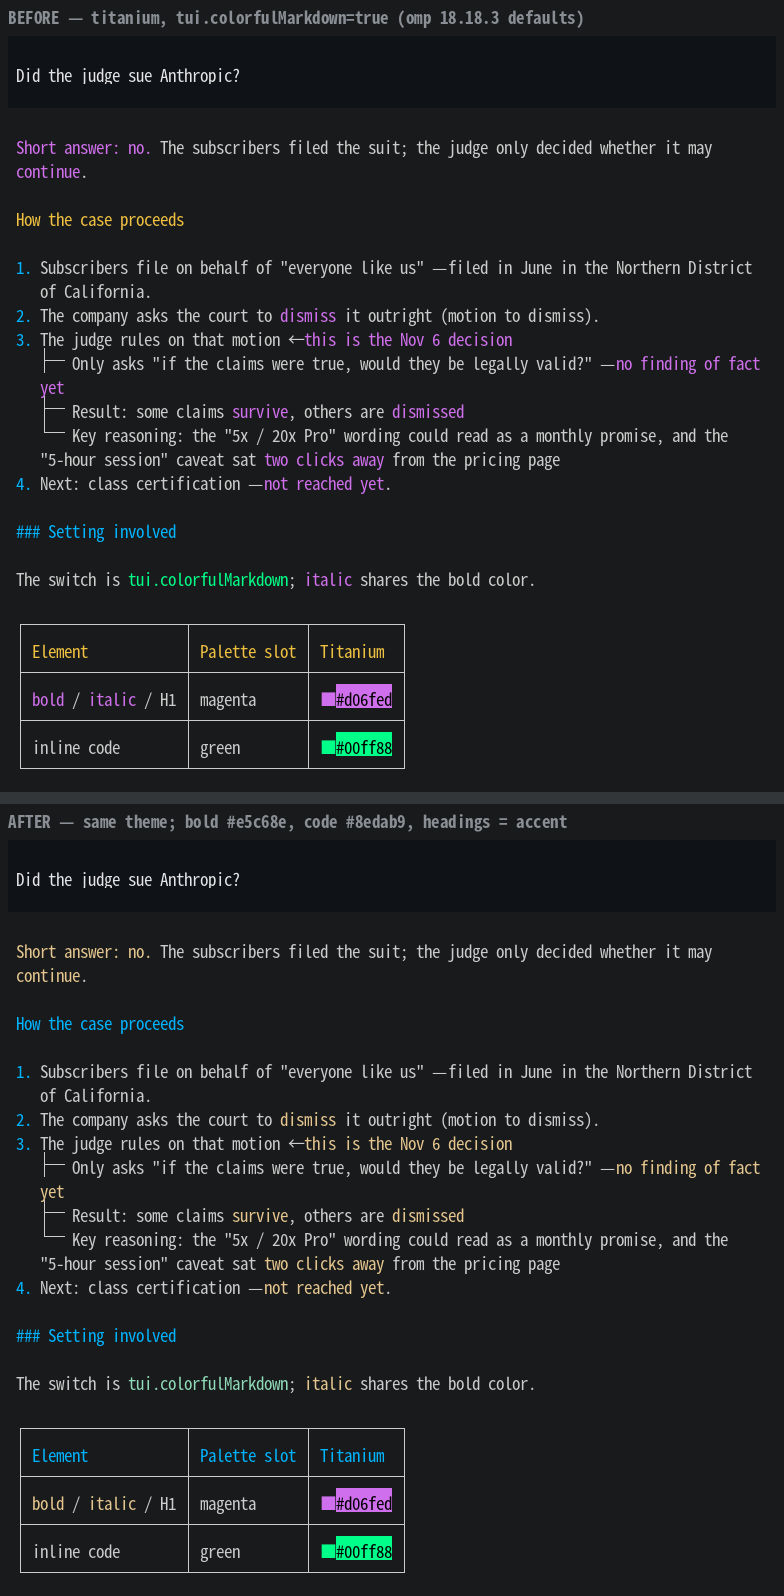
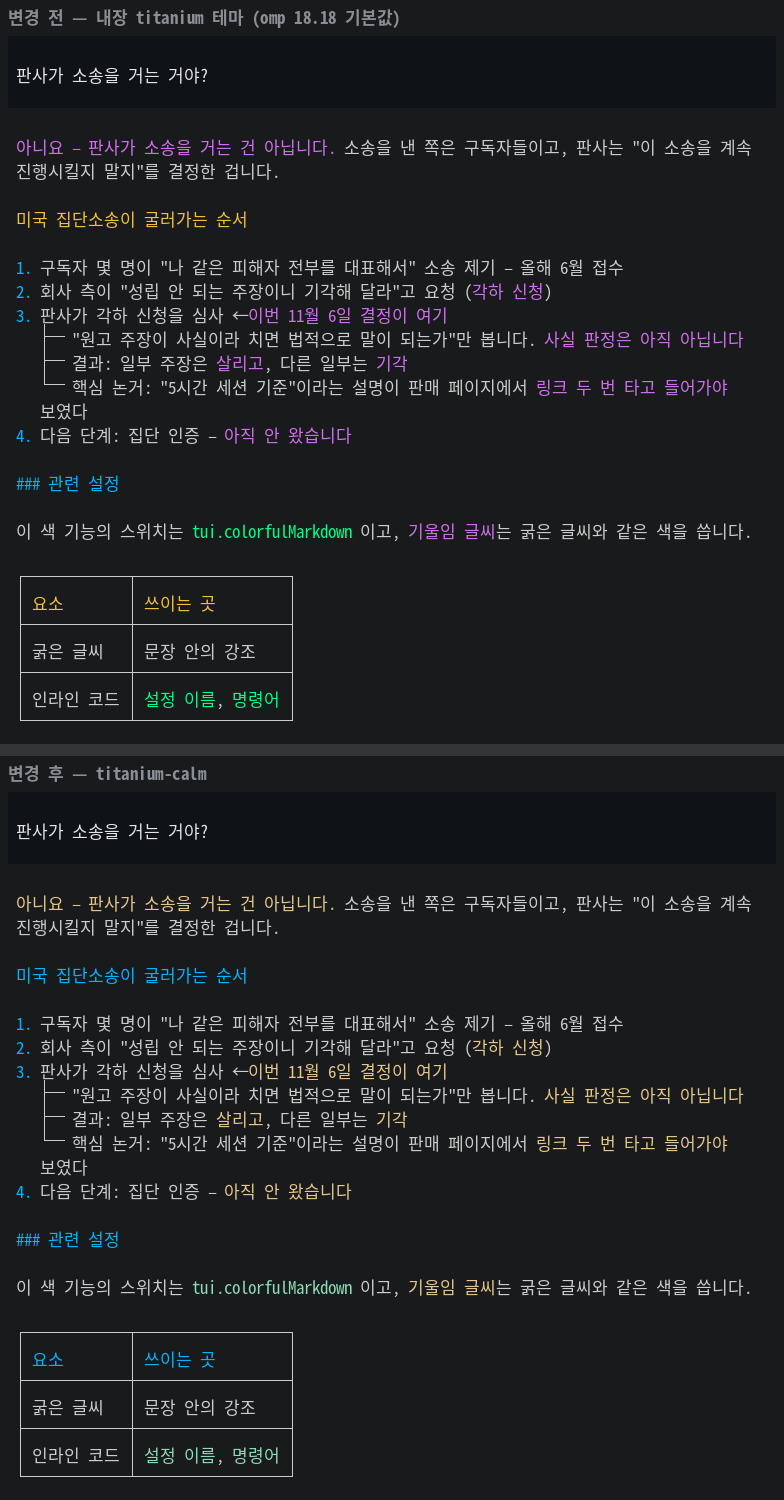
README in Korean; new before/after capture without raw color codes

diff --git a/README.md b/README.md
@@ -1,55 +1,55 @@
-# titanium-calm — a calmer Colorful Markdown palette for omp
+# titanium-calm — omp 티타늄 테마의 눈 편한 버전
 
-A drop-in variant of [omp](https://github.com/can1357/oh-my-pi)'s built-in **titanium** theme that keeps the theme's electric-blue identity but tones down the colors that omp 18.18's *Colorful Markdown* feature paints into every answer: bold text is no longer neon purple, inline code is no longer neon green, and the ✓ / diff-added / bash-command green is softened too.
+[omp](https://github.com/can1357/oh-my-pi) 내장 **titanium** 테마를 그대로 복제하고, 색 몇 개만 눈이 편하도록 바꾼 테마입니다. 티타늄의 상징인 전기 파랑은 그대로 두고, omp 18.18부터 기본으로 켜진 *Colorful Markdown* 기능이 답변 곳곳에 칠하는 **네온 보라(굵은 글씨)·형광 초록(인라인 코드)** 을 차분한 색으로 바꿨습니다. ✓ 성공 표시·명령어 이름 등에 쓰이던 형광 초록도 함께 낮췄습니다.
 
-![before / after](screenshots/before-after.png)
+![변경 전 / 후](screenshots/before-after.png)
 
-## Install (3 steps)
+## 설치 (3단계)
 
-1. Save [`themes/titanium-calm.json`](themes/titanium-calm.json) into your omp themes folder: `~/.omp/agent/themes/` (create the folder if it doesn't exist).
-2. In omp, open **Settings → Appearance → Dark Theme** and pick `titanium-calm`.
-3. Make sure **Settings → Appearance → Display → Colorful Markdown** is on (it is by default since 18.18).
+1. [`themes/titanium-calm.json`](themes/titanium-calm.json) 파일을 omp 테마 폴더 `~/.omp/agent/themes/` 에 넣습니다 (폴더가 없으면 만드세요).
+2. omp 설정 → **Appearance → Dark Theme** 에서 `titanium-calm` 을 고릅니다.
+3. **Appearance → Display → Colorful Markdown** 이 켜져 있는지 확인합니다 (18.18부터 기본 켬).
 
-That's it — nothing else in omp changes. The file is a full copy of titanium, so it works on its own and survives omp updates (it just won't pick up future tweaks to the built-in titanium).
+끝입니다. 그 외에는 아무것도 바뀌지 않습니다. 티타늄 전체를 복제한 파일이라 단독으로 동작하고, omp가 업데이트돼도 그대로 유지됩니다 (대신 내장 티타늄이 나중에 바뀌어도 따라가지는 않습니다).
 
-## What changed
+## 무엇이 바뀌나
 
-Colorful Markdown takes its colors from the theme's 16-color `terminal.ansi` palette with a fixed mapping (bold/italic/H1 → magenta slot, H2/table header → yellow slot, H3+ → blue slot, inline code → green slot). This theme only retunes those slots, plus one variable.
+Colorful Markdown은 테마의 16색 터미널 팔레트(`terminal.ansi`)에서 정해진 칸을 꺼내 씁니다 — 굵게·기울임·H1 → 자홍 칸, H2·표 머리글 → 노랑 칸, H3 이하 → 파랑 칸, 인라인 코드 → 초록 칸. 이 테마는 그 칸들과 변수 하나만 바꿉니다.
 
-| Element | titanium | titanium-calm |
+| 요소 | titanium | titanium-calm |
 |---|---|---|
-| **bold**, *italic*, H1 | `#d06fed` purple | `#e5c68e` soft gold |
-| inline `code` | `#00ff88` neon green | `#8edab9` mint |
-| H2, table headers | `#f0c040` yellow | `#00b4ff` electric blue (= accent) |
-| H3–H6 | `#00b4ff` | `#00b4ff` (unchanged) |
-| ✓ success, diff `+` lines, bash command names, git status (7 tokens via `readoutGreen`) | `#00ff88` | `#7ad689` |
+| **굵은 글씨**, *기울임*, 큰 제목(H1) | `#d06fed` 네온 보라 | `#e5c68e` 은은한 금빛 |
+| 인라인 `코드` | `#00ff88` 형광 초록 | `#8edab9` 민트 |
+| 중간 제목(H2), 표 머리글 | `#f0c040` 노랑 | `#00b4ff` 전기 파랑 (= 강조색) |
+| 작은 제목(H3 이하) | `#00b4ff` | `#00b4ff` (그대로) |
+| ✓ 성공 표시, 수정 카드의 추가된 줄, 명령어 이름, git 상태 등 7곳 (`readoutGreen` 변수) | `#00ff88` | `#7ad689` |
 
-List markers, links, borders, status line — everything else is untouched titanium.
+목록 번호·링크·테두리·상태 표시줄 등 나머지는 전부 티타늄 그대로입니다.
 
-## Why these values
+## 왜 이 값인가
 
-Measured in OKLCH (a perceptual color space: lightness · chroma · hue):
+OKLCH(사람 눈 기준으로 밝기·채도·색상을 나타내는 색 체계)로 맞췄습니다.
 
-- **Lightness matched to body text** (L ≈ 0.84). Emphasis should read as *colored prose*, not as brighter or darker prose — lightness jumps are what tire the eye.
-- **Chroma ≤ half of the accent's.** Electric blue (C 0.16) stays the one "structure" color (headings, list numbers, links). Bold (C 0.08) and code (C 0.09) sit clearly below it, so the hierarchy reads: blue structure › gold emphasis › mint code › plain text. The original purple (C 0.20) and green (C 0.23) were *more* saturated than the accent, which inverted that hierarchy.
-- **Hues 70°+ apart**: gold (82°), mint (165°), blue (237°). No purple/pink.
+- **밝기를 본문 글자에 맞춤** (L ≈ 0.84). 강조는 "색이 다른 본문"으로 읽혀야지, 더 밝거나 어두운 글자가 되면 안 됩니다 — 눈을 피로하게 하는 건 밝기 차이입니다.
+- **채도는 강조색의 절반 이하.** 전기 파랑(채도 0.16)만 "구조"를 나타내는 색으로 남기고(제목·번호·링크), 굵은 글씨(0.08)와 코드(0.09)는 그 아래에 둡니다. 위계가 *파랑 구조 › 금빛 강조 › 민트 코드 › 본문* 순으로 읽힙니다. 원래의 보라(0.20)·초록(0.23)은 강조색보다 채도가 **더 높아서** 이 위계가 뒤집혀 있었습니다.
+- **색상 간격 70° 이상**: 금빛(82°), 민트(165°), 파랑(237°). 보라·분홍 계열은 쓰지 않습니다.
 
-Tuned on a neutral dark background (`#191a1b`, Windows Terminal). Not meant for light terminals.
+중성 어두운 배경(`#191a1b`, Windows Terminal)에서 맞춘 값입니다. 밝은 배경 터미널에는 맞지 않습니다.
 
-## Porting to another theme
+## 다른 테마에 옮기기
 
-Copy your theme's JSON from omp's `defaults.json` (or your own file), then change `terminal.ansi` slots **2** (inline code), **3** (H2/table header), **4** (H3+) and **5** (bold/italic/H1), applying the same rule: lightness ≈ your body text, chroma ≈ half of your accent. If the theme reuses one neon green for success/diff/syntax, find that variable in `vars` and soften it once.
+omp의 `defaults.json`(또는 자기 테마 파일)에서 테마 JSON을 복사한 뒤 `terminal.ansi` 의 **2번**(인라인 코드)·**3번**(H2·표 머리글)·**4번**(H3 이하)·**5번**(굵게·기울임·H1) 칸을 같은 원칙으로 바꾸면 됩니다 — 밝기는 본문에, 채도는 강조색의 절반으로. 성공·추가 줄·문법 강조에 형광 초록 하나를 돌려 쓰는 테마라면 `vars` 에서 그 변수를 찾아 한 번만 낮추세요.
 
-## Credits / license
+## 출처 / 라이선스
 
-Derived from the `titanium` theme in [can1357/oh-my-pi](https://github.com/can1357/oh-my-pi) (MIT). This repository is MIT as well — see [LICENSE](LICENSE).
+[can1357/oh-my-pi](https://github.com/can1357/oh-my-pi)의 `titanium` 테마(MIT)에서 파생했습니다. 이 저장소도 MIT입니다 — [LICENSE](LICENSE) 참고.
 
 ---
 
-## 한국어 요약
+## English
 
-omp 18.18부터 기본으로 켜진 "Colorful Markdown" 기능이 굵은 글씨를 네온 보라, 인라인 코드를 형광 초록으로 칠하는데, 티타늄 테마에서는 이게 눈이 아픕니다. 이 테마는 티타늄을 그대로 복제하고 **그 네 가지 색과 네온 초록 변수 하나만** 눈 편한 값으로 바꾼 것입니다 — 제목·번호·링크의 전기 파랑은 그대로 둡니다.
+A drop-in variant of omp's built-in **titanium** theme. It keeps the electric-blue identity but tones down what *Colorful Markdown* (default on since 18.18) paints into every answer: bold is soft gold `#e5c68e` instead of neon purple `#d06fed`, inline code is mint `#8edab9` instead of neon green `#00ff88`, H2/table headers reuse the accent `#00b4ff`, and the `readoutGreen` variable (✓ lines, diff `+`, bash command names, git status) is softened to `#7ad689`.
 
-설치: `themes/titanium-calm.json` 파일을 `~/.omp/agent/themes/` 폴더에 넣고, omp 설정 → Appearance → Dark Theme에서 `titanium-calm`를 고르면 끝입니다 (Colorful Markdown은 켠 상태로).
+Install: copy `themes/titanium-calm.json` to `~/.omp/agent/themes/`, pick `titanium-calm` under Settings → Appearance → Dark Theme, keep Colorful Markdown on.
 
-원칙: OKLCH 기준으로 **밝기는 본문 글자에 맞추고, 채도는 전기 파랑의 절반 이하**로. 파랑 = 구조(제목·번호·링크), 금빛 = 강조(굵게), 민트 = 코드. 다른 테마에 옮기려면 팔레트 2·3·4·5번 칸과 네온 초록 변수만 같은 원칙으로 바꾸면 됩니다.
+Rule used (OKLCH): emphasis lightness ≈ body text (L ≈ 0.84), chroma ≤ half of the accent's (0.16), so the hierarchy reads blue structure › gold emphasis › mint code › prose. To port to another theme, retune `terminal.ansi` slots 2 (code), 3 (H2/table header), 4 (H3+) and 5 (bold/italic/H1) the same way.
